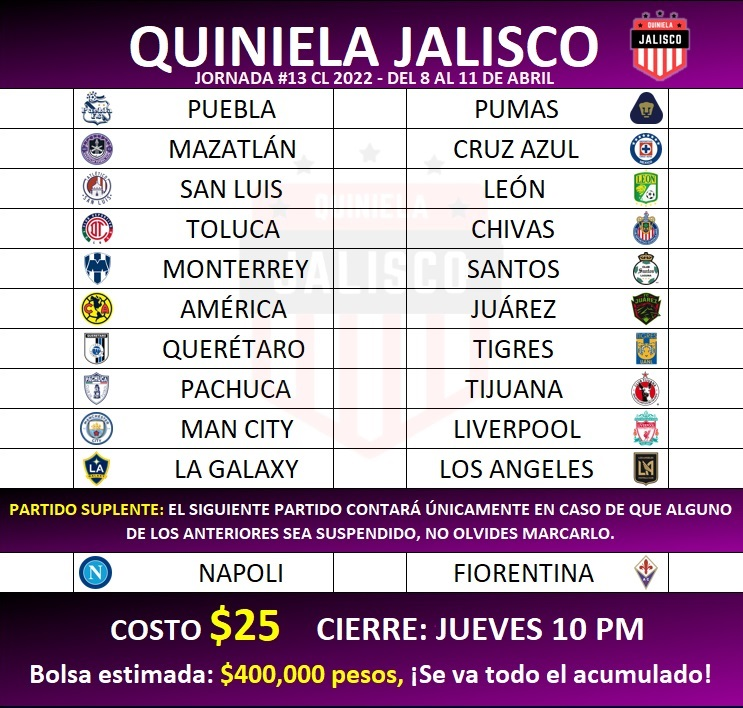
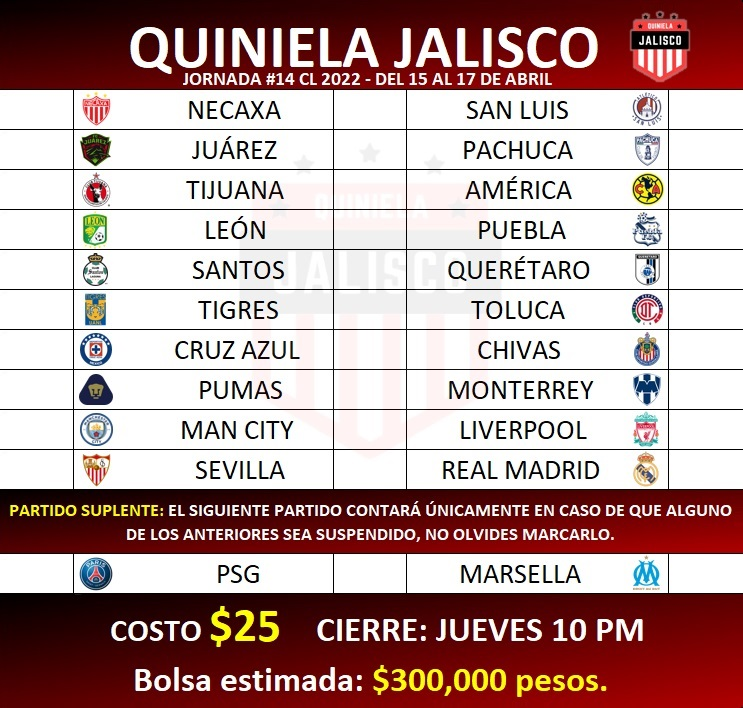
Jornada 14 C22

diff --git a/11/styles11.css b/11/styles11.css
@@ -87,8 +87,8 @@ h1{
     margin-top: 9%;
     border-top: solid 1px black;
     border-radius: 0 0 14px 14px;
-    background: -webkit-linear-gradient(0.53turn, rgb(150,1,150)  ,rgb(0,0,0) 80%);
-    background: linear-gradient(0.53turn, rgb(150,1,150)  ,rgb(0,0,0) 80%);
+    background: -webkit-linear-gradient(0.53turn, rgb(144,0,0)  ,rgb(0,0,0) 80%);
+    background: linear-gradient(0.53turn, rgb(144,0,0)  ,rgb(0,0,0) 80%);
     font-size: x-large;
     text-shadow: 2px 2px 4px black;
 }
@@ -255,12 +255,12 @@ h6{
 }
 
 #cantidad:before{
-    content:'$400,000 pesos';
+    content:'$300,000 pesos';
     color: yellow;
 }
 
 
 #bolsatxt:before{
-    content:'¡Se va todo el acumulado! Bolsa estimada: ';
+    content:'Bolsa estimada: ';
     white-space: pre;
 }

diff --git a/index.html b/index.html
@@ -18,7 +18,7 @@
 </head>
 
 <body>
-    <p id='bolsa'><span id="bolsatxt"></span><span id="cantidad"></span></p>
+    <p id='bolsa'><br><span id="bolsatxt"></span><span id="cantidad"></span><br><span style="font-size:smaller;color:orange;">AVISO: Las cuentas para realizar los pagos cambiaron.</span></p>
     <div class="quiniela" id="quiniela">
         <div class="aux"><h3 style="padding: 5px 7px" onclick="clean()"><ion-icon name="close-outline"></ion-icon></h3></div>
         <div class="partido">
@@ -137,7 +137,6 @@
         <!--<script src="https://unpkg.com/ionicons@5.1.2/dist/ionicons.js"></script>-->
 
         <br><br>
-
     <div>
     <h4 id="costo">Costo: <span id="costoSpan">$0</span></h4><h4 id="total">Total: $0</h4><br>
     </div>
